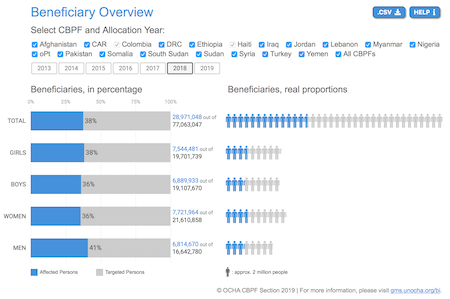
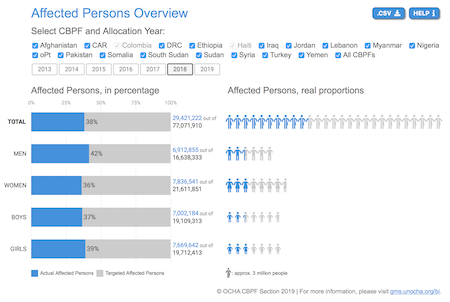
Update files

diff --git a/pbiobe/README.md b/pbiobe/README.md
@@ -1,10 +1,10 @@
-# GMS BI: Beneficiary Overview, stacked bar and pictogram chart
+# GMS BI: Affected Persons Overview, stacked bar and pictogram chart
 
 Data visualisation for the Country-based Pooled Funds (CBPF) overview in the Business Inteligence Portal at [gms.unocha.org](https://gms.unocha.org/content/cbpf-overview) . The datavis contains several elements:
 
 - A set of checkboxes for the selection of CBPFs and a set of buttons allowing the selection of the year.
-- A stacked bar chart (100%) showing the percentage of actual beneficiaries relative to targeted beneficiaries for girls, boys, women, men and total.
-- A pictogram chart showing the real number of beneficiaries (targeted and actual) and their proportions for all 5 types (girls, boys, women, men and total).
+- A stacked bar chart (100%) showing the percentage of actual affected persons relative to targeted affected persons for girls, boys, women, men and total.
+- A pictogram chart showing the real number of affected persons (targeted and actual) and their proportions for all 5 types (girls, boys, women, men and total).
 - Two buttons at the top right hand side, for downloading the CSV file (according to the selected options) and for displaying a description of the chart.
 
 <img alt="GMS Landing Page" src="https://cbpfgms.github.io/img/thumbnails/pbiobe.png" width="450">
@@ -13,7 +13,7 @@ Data visualisation for the Country-based Pooled Funds (CBPF) overview in the Bus
 
 Copy this snippet to the HTML:
 
-```<div id="d3chartcontainerpbiobe" data-title="Beneficiary Overview" data-showhelp="true" data-cbpf="all" data-year="2018" data-responsive="true" data-lazyload="true"></div><script type="text/javascript" src="https://cbpfgms.github.io/pbiobe/src/d3chartpbiobe.js"></script>```
+```<div id="d3chartcontainerpbiobe" data-title="Affected Persons Overview" data-showhelp="true" data-cbpf="all" data-year="2018" data-responsive="true" data-lazyload="true"></div><script type="text/javascript" src="https://cbpfgms.github.io/pbiobe/src/d3chartpbiobe.js"></script>```
 
 The script will create an SVG inside the `<div>` specified in the snippet.
 

diff --git a/pbiolc/README.md b/pbiolc/README.md
@@ -3,8 +3,8 @@
 Data visualisation for the Country-based Pooled Funds (CBPF) overview in the Business Inteligence Portal at [gms.unocha.org](https://gms.unocha.org/content/cbpf-overview) . The datavis contains several elements:
 
 - A set of checkboxes for the selection of CBPFs.
-- A set of control buttons allowing the selection of the year, Modality type (total, standard or reserve) and Beneficiary type (targeted or actual).
-- Two lollipop charts, one depicting the allocations by cluster and another one depicting beneficiaries by cluster, (according to the selected year, modality and beneficiary).
+- A set of control buttons allowing the selection of the year, Modality type (total, standard or reserve) and Affected Person type (targeted or actual).
+- Two lollipop charts, one depicting the allocations by cluster and another one depicting affected persons by cluster, (according to the selected year, modality and beneficiary).
 - Two buttons at the top right hand side, for downloading the CSV file (according to the selected options) and for displaying a description of the chart.
 
 <img alt="GMS Landing Page" src="https://cbpfgms.github.io/img/thumbnails/pbiolc.png" width="450">
@@ -62,10 +62,10 @@ If the value is not a valid one it defaults to `"all"`.
 
 If the value is not an accepted value, it defaults to `"total"`.
 
-**`data-beneficiaries`**: defines the type of beneficiaries depicted by the data visualisation when the page loads. The value has to be a string. Accepted values:
+**`data-beneficiaries`**: defines the type of affected persons depicted by the data visualisation when the page loads. The value has to be a string. Accepted values:
 
-- `"targeted"`: shows targeted beneficiaries.
-- `"actual"`: shows actual beneficiaries.
+- `"targeted"`: shows targeted affected persons.
+- `"actual"`: shows actual affected persons.
 
 If the value is not an accepted value, it defaults to `"targeted"`.
 
